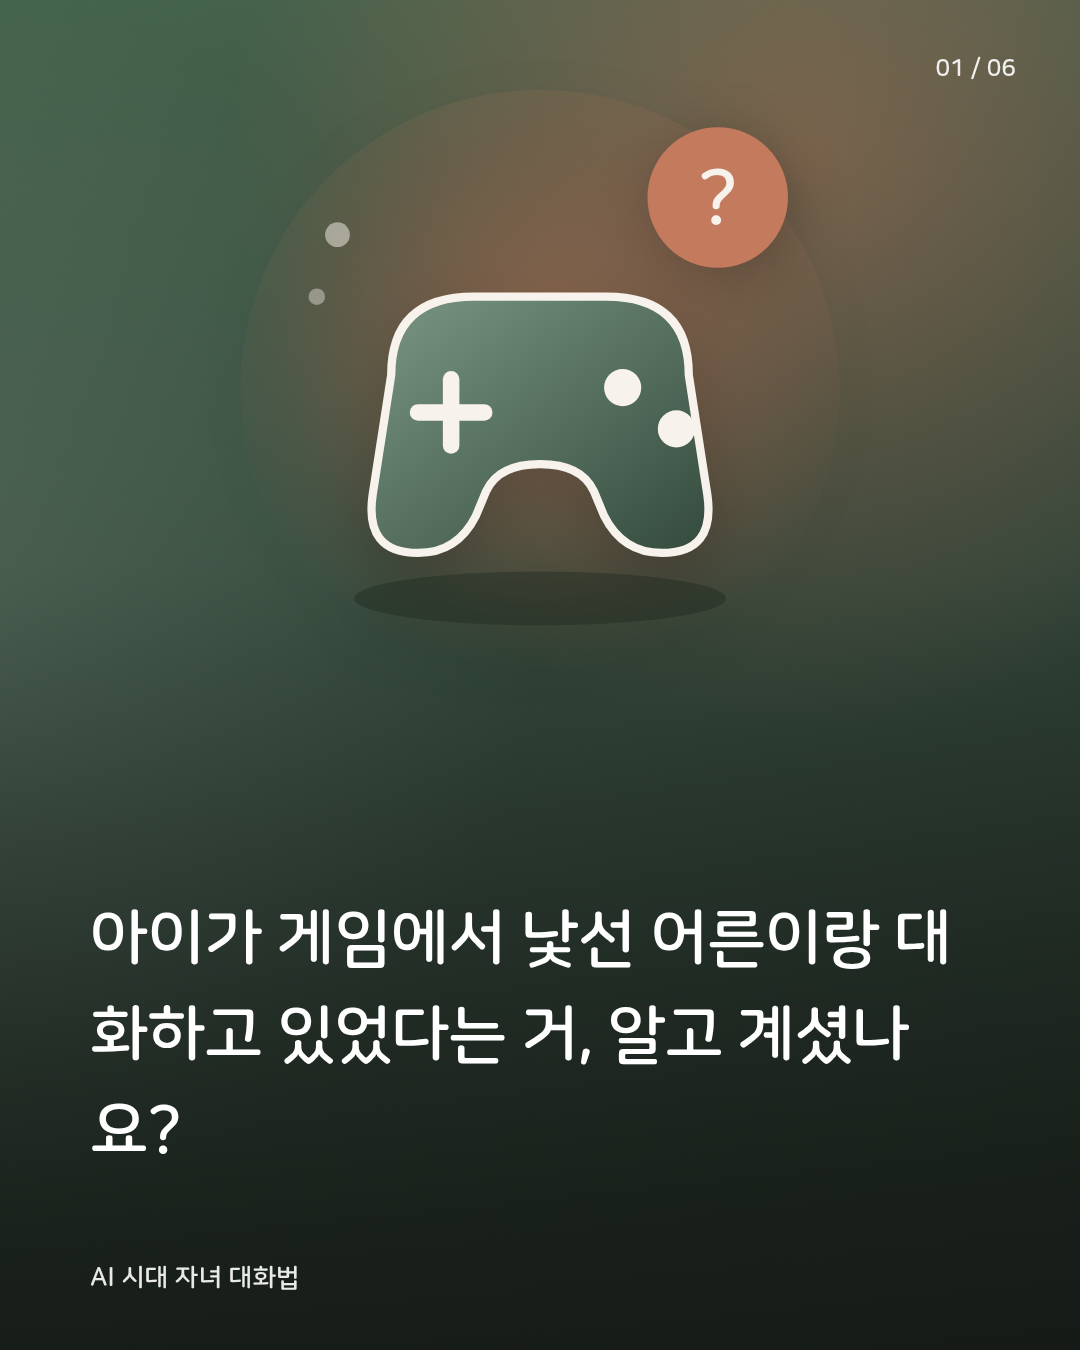
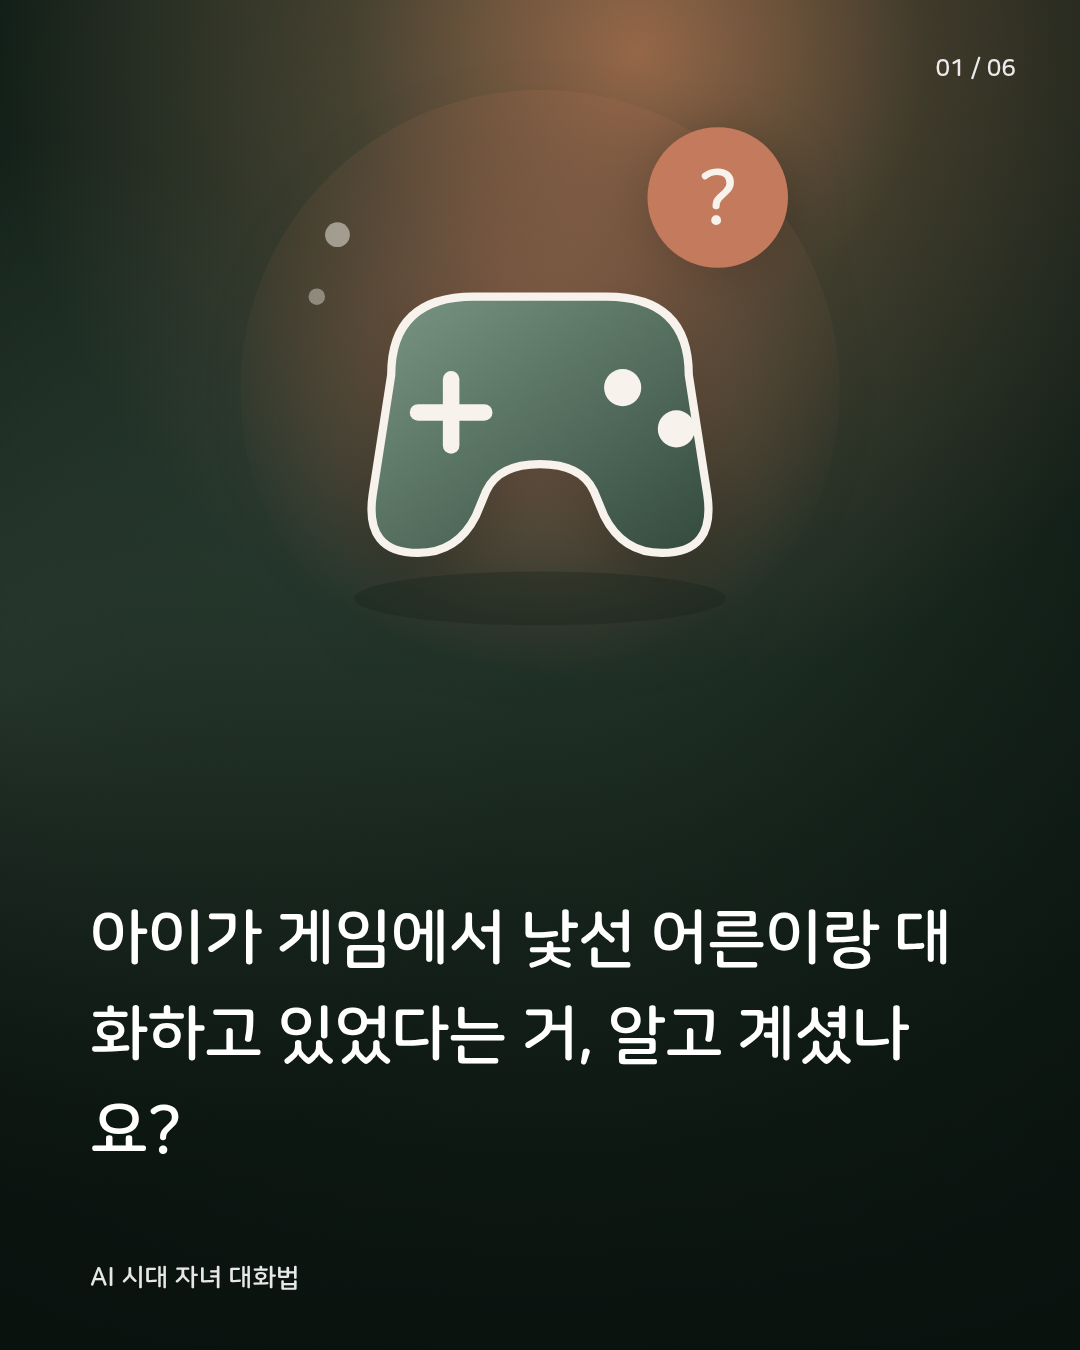
Give cover background a cinematic color-grade look
Replaced the flat diagonal gradient with a radial vignette (dark,
near-black edges) plus a tighter, more saturated amber spotlight and
a cool sage rim light — closer to color-graded studio photography
than a plain color blend. Matched the bottom text-overlay gradient to
the new darker tone.

Claude-Session: https://claude.ai/code/session_01SKRiH832QpXihGuzAhqCbP

diff --git a/scripts/render_carousel.js b/scripts/render_carousel.js
@@ -113,14 +113,16 @@ function hashSeed(str) {
 
 function buildArtCoverStyle(topicDir) {
   const seed = hashSeed(topicDir);
-  const blobX = 55 + (seed % 30); // 55~84%
-  const blobY = 15 + ((seed >> 4) % 25); // 15~39%
-  const blob2X = 10 + ((seed >> 8) % 25);
-  const blob2Y = 55 + ((seed >> 12) % 30);
+  const glowX = 58 + (seed % 26); // 58~83%
+  const glowY = 16 + ((seed >> 4) % 22); // 16~37%
+  const rimX = 10 + ((seed >> 8) % 22);
+  const rimY = 58 + ((seed >> 12) % 26);
+  // 시네마틱 컬러그레이딩 느낌: 따뜻한 앰버 스팟라이트 + 차가운 세이지 림라이트 +
+  // 가장자리가 어두워지는 비네트 베이스. 단순 톤 블렌딩보다 대비/채도를 올려 고급스럽게.
   return `
-    radial-gradient(circle at ${blobX}% ${blobY}%, rgba(196,122,93,0.55) 0%, rgba(196,122,93,0) 40%),
-    radial-gradient(circle at ${blob2X}% ${blob2Y}%, rgba(160,180,168,0.30) 0%, rgba(160,180,168,0) 45%),
-    linear-gradient(160deg, #4a6b52 0%, #3A5244 55%, #1E2B23 100%)`;
+    radial-gradient(circle at ${glowX}% ${glowY}%, rgba(224,138,94,0.68) 0%, rgba(224,138,94,0.22) 20%, rgba(224,138,94,0) 44%),
+    radial-gradient(circle at ${rimX}% ${rimY}%, rgba(122,150,131,0.30) 0%, rgba(122,150,131,0) 42%),
+    radial-gradient(ellipse at 50% 36%, #33493C 0%, #1A2B21 55%, #0C1712 100%)`;
 }
 
 // 주제 폴더 번호로 4개 주차 카테고리(챗봇/유튜브/게임/SNS)를 판별해
@@ -321,7 +323,7 @@ function buildHtml(slides, coverPhotoPath, topicDir) {
   .highlight { background: #C47A5D; color: #F7F3EC; padding: 3px 10px; border-radius: 6px; box-decoration-break: clone; -webkit-box-decoration-break: clone; }
   /* 표지: 사진 배경 + 하단 그라데이션 오버레이 + 헤드라인 */
   .slide.photo { background-color: #222; background-size: cover; background-position: center; color: #FFFFFF; }
-  .photo-overlay { position: absolute; inset: 0; background: linear-gradient(180deg, rgba(20,24,20,0.10) 0%, rgba(20,24,20,0.25) 42%, rgba(20,24,20,0.88) 100%); }
+  .photo-overlay { position: absolute; inset: 0; background: linear-gradient(180deg, rgba(9,17,13,0.08) 0%, rgba(9,17,13,0.28) 44%, rgba(9,17,13,0.92) 100%); }
   .photo-content { position: absolute; left: 0; right: 0; bottom: 170px; padding: 0 90px; z-index: 2; }
   .photo .hook { font-size: 58px; font-weight: 700; line-height: 1.5; letter-spacing: -1px; color: #FFFFFF; text-shadow: 0 2px 16px rgba(0,0,0,0.35); }
   .photo .hook .highlight { background: #C47A5D; }
